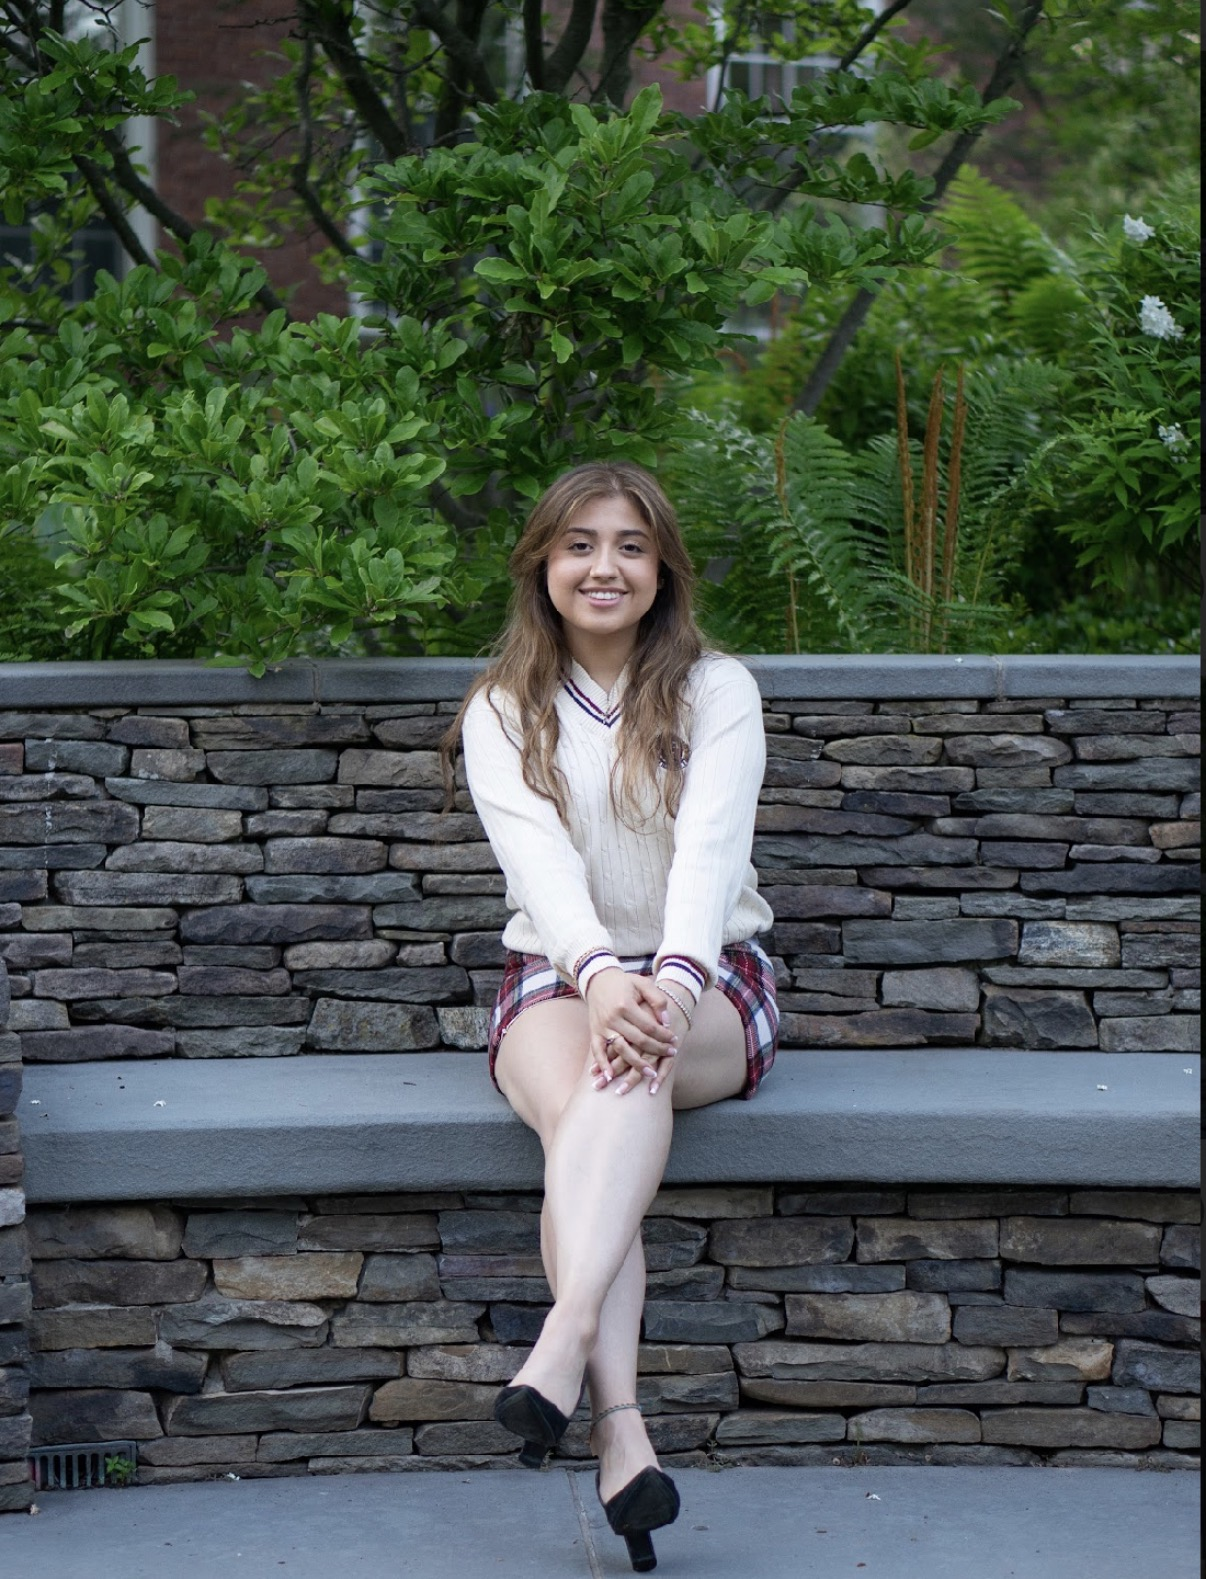
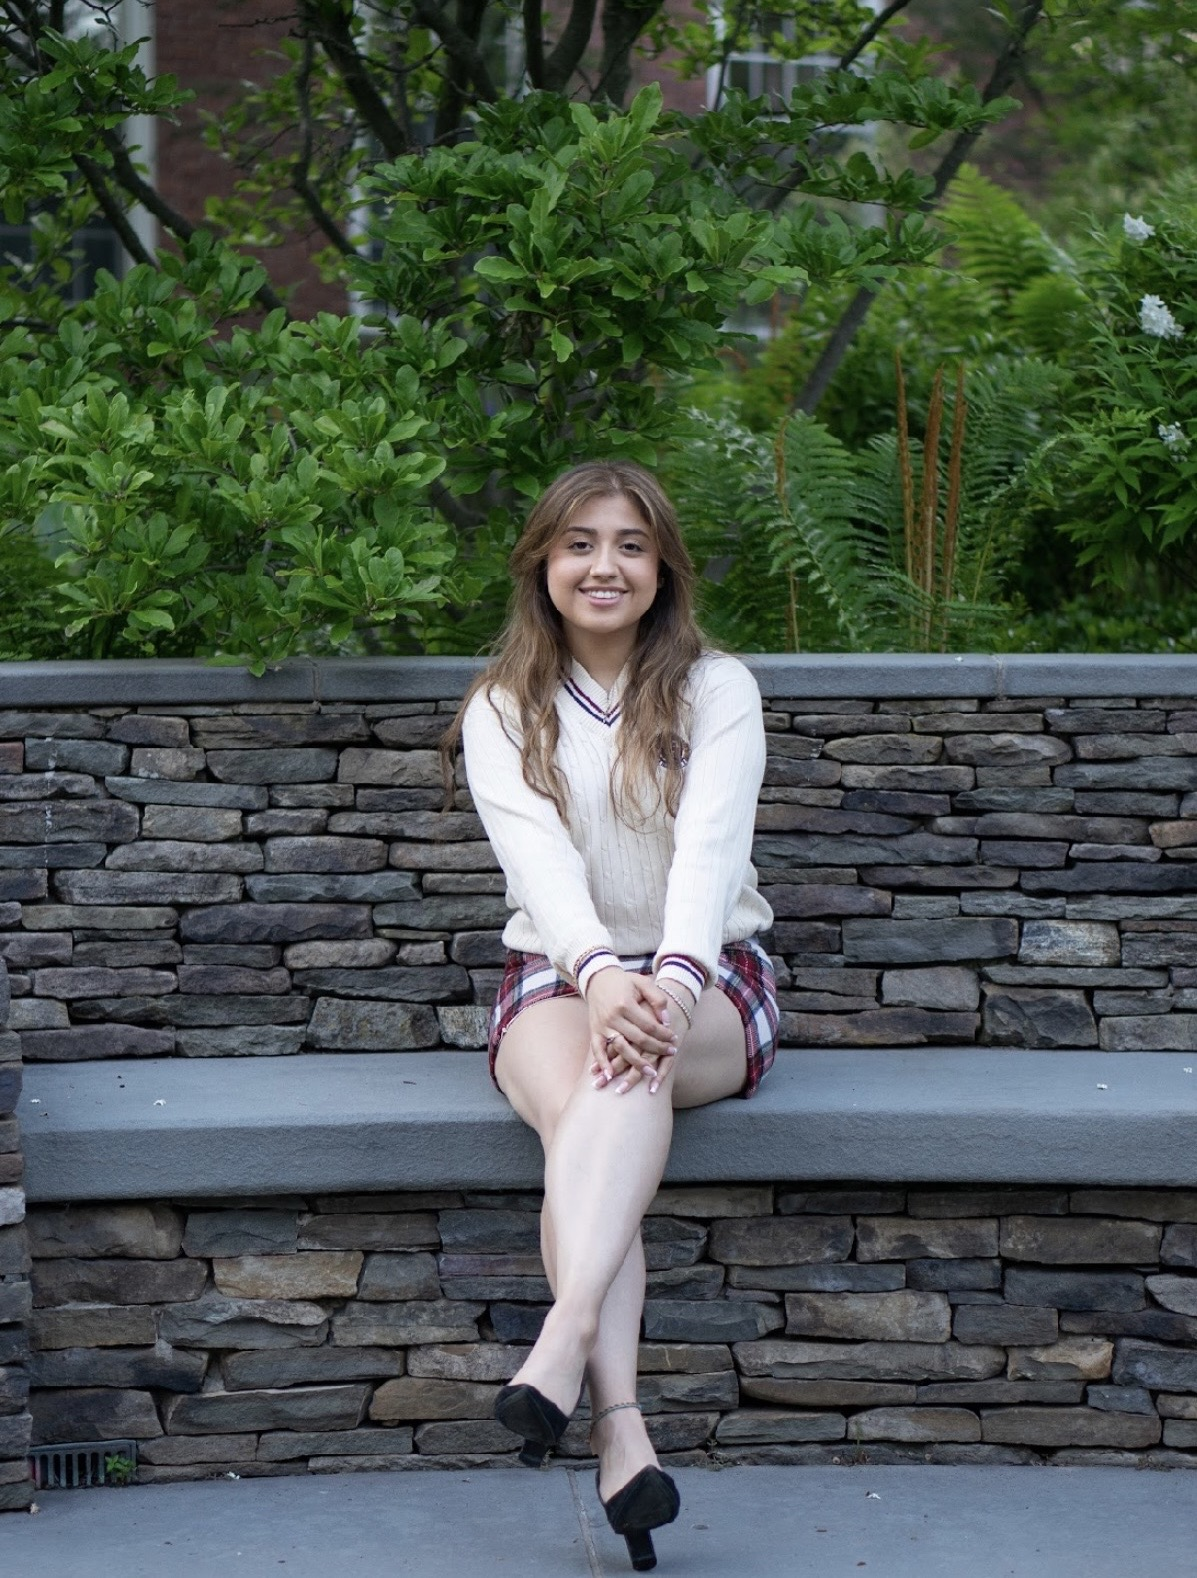
udpatedf otn and images

diff --git a/index.html b/index.html
@@ -11,7 +11,7 @@
   <link rel="preconnect" href="https://fonts.googleapis.com">
   <link rel="preconnect" href="https://fonts.gstatic.com" crossorigin>
   <link
-    href="https://fonts.googleapis.com/css2?family=Fraunces:opsz,wght,SOFT@9..144,300..700,0..100&family=Karla:wght@300;400;500;600;700&family=Cormorant+Garamond:wght@300&display=swap"
+    href="https://fonts.googleapis.com/css2?family=Fraunces:opsz,wght,SOFT@9..144,300..700,0..100&family=Karla:wght@300;400;500;600;700&family=Cormorant+Garamond:wght@700&display=swap"
     rel="stylesheet">
   <link rel="stylesheet" href="css/style.css">
   <script src="js/main.js" defer></script>
@@ -80,7 +80,7 @@
         <div>
           <p class="eyebrow on-navy fade-up">Education, Done Purposefully.</p>
           <div class="hero-title-row">
-            <h1>
+            <h1 class="cg-head">
               <span class="ln"><span>Helping Students and</span></span>
               <span class="ln"><span>Families Create a Plan</span></span>
               <span class="ln"><span><em>With Purpose.</em></span></span>
@@ -215,7 +215,7 @@
       <div class="wrap">
         <div class="sec-head rv">
           <p class="eyebrow">START WITH PURPOSE</p>
-          <h2>Let&rsquo;s Find the Right Starting Point for Your Student</h2>
+          <h2 class="cg-head">Let&rsquo;s Find the Right Starting Point for Your Student</h2>
           <p>Answer a few questions to discover the best place to begin.</p>
         </div>
         <div class="finder-card rv">
@@ -317,7 +317,7 @@
       <div class="wrap">
         <div class="sec-head rv">
           <p class="eyebrow on-navy">Stories of Growth and Impact</p>
-          <h2 class="tst-oneline">Real families. Real growth. Real results.</h2>
+          <h2 class="tst-oneline cg-head">Real families. Real growth. Real results.</h2>
         </div>
         <div class="tst-carousel rv">
           <div class="tst-viewport">
@@ -476,7 +476,7 @@
       <div class="wrap">
         <div class="sec-head rv">
           <p class="eyebrow">Academic Programs</p>
-          <h2>Support for Every Stage of Your Student&rsquo;s Journey</h2>
+          <h2 class="cg-head">Support for Every Stage of Your Student&rsquo;s Journey</h2>
           <p>Personalized academic support from early learning through college preparation.</p>
         </div>
         <div class="teaser-grid">

diff --git a/college-support.html b/college-support.html
@@ -8,7 +8,7 @@
 <link rel="icon" href="images/favicon.png" type="image/png">
 <link rel="preconnect" href="https://fonts.googleapis.com">
 <link rel="preconnect" href="https://fonts.gstatic.com" crossorigin>
-<link href="https://fonts.googleapis.com/css2?family=Fraunces:opsz,wght,SOFT@9..144,300..700,0..100&family=Karla:wght@300;400;500;600;700&family=Cormorant+Garamond:wght@300&display=swap" rel="stylesheet">
+<link href="https://fonts.googleapis.com/css2?family=Fraunces:opsz,wght,SOFT@9..144,300..700,0..100&family=Karla:wght@300;400;500;600;700&family=Cormorant+Garamond:wght@700&display=swap" rel="stylesheet">
 <link rel="stylesheet" href="css/style.css">
 <script src="js/main.js" defer></script>
 </head>
@@ -91,7 +91,7 @@
     <div class="wrap">
       <div class="sec-head rv">
         <p class="eyebrow">Family &amp; Community Support</p>
-        <h2 class="h-oneline">College Planning Is a Family Journey.</h2>
+        <h2 class="h-oneline cg-head">College Planning Is a Family Journey.</h2>
         <p>Offer workshops and educational sessions designed to make the college process easier to understand for students and families.</p>
       </div>
       <ul class="chips rv" style="justify-content:center;margin-bottom:1.6rem">
@@ -105,7 +105,7 @@
     <div class="wrap">
       <div class="sec-head rv">
         <p class="eyebrow">College Support Options</p>
-        <h2 class="h-oneline">Guidance for Every Step of the Journey.</h2>
+        <h2 class="h-oneline cg-head">Guidance for Every Step of the Journey.</h2>
         <p>Personalized college support designed around where each student is in their journey and what they need to move forward.</p>
       </div>
       <div class="price-grid" style="grid-template-columns:repeat(2,1fr)">
@@ -142,7 +142,7 @@
     <div class="wrap">
       <div class="sec-head rv">
         <p class="eyebrow">Family &amp; Community Workshops</p>
-        <h2>College Knowledge for the<br>Whole Community.</h2>
+        <h2 class="cg-head">College Knowledge for the<br>Whole Community.</h2>
         <p>Purpose Education offers educational workshops for families, schools, and community organizations designed to make the college process easier to understand and navigate.</p>
       </div>
       <ul class="chips rv" style="justify-content:center;margin-bottom:1.6rem">

diff --git a/tutoring.html b/tutoring.html
@@ -11,7 +11,7 @@
   <link rel="preconnect" href="https://fonts.googleapis.com">
   <link rel="preconnect" href="https://fonts.gstatic.com" crossorigin>
   <link
-    href="https://fonts.googleapis.com/css2?family=Fraunces:opsz,wght,SOFT@9..144,300..700,0..100&family=Karla:wght@300;400;500;600;700&family=Cormorant+Garamond:wght@300&display=swap"
+    href="https://fonts.googleapis.com/css2?family=Fraunces:opsz,wght,SOFT@9..144,300..700,0..100&family=Karla:wght@300;400;500;600;700&family=Cormorant+Garamond:wght@700&display=swap"
     rel="stylesheet">
   <link rel="stylesheet" href="css/style.css">
   <script src="js/main.js" defer></script>
@@ -90,7 +90,7 @@
       <div class="wrap split narrow-left">
         <div class="rv">
           <p class="eyebrow">One-on-One Tutoring</p>
-          <h2>Personalized. Focused. Individualized.</h2>
+          <h2 class="cg-head">Personalized. Focused. Individualized.</h2>
           <p class="lede">One-on-one tutoring gives your student dedicated support built around how they learn best.
             Instruction is targeted, responsive, and designed to build both academic skills and confidence.</p>
         </div>
@@ -151,7 +151,7 @@
       <div class="wrap">
         <div class="sec-head rv">
           <p class="eyebrow">Academic Support</p>
-          <h2>Looking for a Specific Subject?</h2>
+          <h2 class="cg-head">Looking for a Specific Subject?</h2>
           <p>Explore the subjects, skills, and areas of support available for your student&rsquo;s grade level.</p>
         </div>
         <p class="center rv"><a class="textlink" href="by-grade.html">Explore Support by Grade &rarr;</a></p>
@@ -191,7 +191,7 @@
           </div>
         </div>
         <div class="commit-bar rv">
-          <h3>Looking for a lower-commitment starting point?</h3>
+          <h3 class="cg-head">Looking for a lower-commitment starting point?</h3>
           <p>Start with 3 hours of one-on-one tutoring for $255 ($85/hour).</p>
         </div>
         <!-- center the heading -->

diff --git a/programs.html b/programs.html
@@ -11,7 +11,7 @@
   <link rel="preconnect" href="https://fonts.googleapis.com">
   <link rel="preconnect" href="https://fonts.gstatic.com" crossorigin>
   <link
-    href="https://fonts.googleapis.com/css2?family=Fraunces:opsz,wght,SOFT@9..144,300..700,0..100&family=Karla:wght@300;400;500;600;700&family=Cormorant+Garamond:wght@300&display=swap"
+    href="https://fonts.googleapis.com/css2?family=Fraunces:opsz,wght,SOFT@9..144,300..700,0..100&family=Karla:wght@300;400;500;600;700&family=Cormorant+Garamond:wght@700&display=swap"
     rel="stylesheet">
   <link rel="stylesheet" href="css/style.css">
   <script src="js/main.js" defer></script>
@@ -78,7 +78,7 @@
       <div class="wrap">
         <div class="inner">
           <p class="crumb"><a href="index.html">Home</a><span>/</span>Academic Programs</p>
-          <h1>Personalized Programs.<br><em>Purposeful Growth.</em></h1>
+          <h1 class="cg-head">Personalized Programs.<br><em>Purposeful Growth.</em></h1>
           <p>From individualized tutoring to collaborative learning, our academic programs are designed to meet students
             where they are, strengthen their skills, and help them grow with confidence.</p>
 
@@ -90,7 +90,7 @@
       <div class="wrap split narrow-left">
         <div class="rv">
           <p class="eyebrow">One-on-One Tutoring</p>
-          <h2>Personalized. Focused. Individualized.</h2>
+          <h2 class="cg-head">Personalized. Focused. Individualized.</h2>
           <p class="lede">Our one-on-one tutoring provides targeted instruction designed around your student&rsquo;s
             learning needs, pace, and goals. Every session is guided by The Purpose Plan to support meaningful progress
             and lasting confidence.</p>

diff --git a/purpose-pods.html b/purpose-pods.html
@@ -11,7 +11,7 @@
   <link rel="preconnect" href="https://fonts.googleapis.com">
   <link rel="preconnect" href="https://fonts.gstatic.com" crossorigin>
   <link
-    href="https://fonts.googleapis.com/css2?family=Fraunces:opsz,wght,SOFT@9..144,300..700,0..100&family=Karla:wght@300;400;500;600;700&family=Cormorant+Garamond:wght@300&display=swap"
+    href="https://fonts.googleapis.com/css2?family=Fraunces:opsz,wght,SOFT@9..144,300..700,0..100&family=Karla:wght@300;400;500;600;700&family=Cormorant+Garamond:wght@700&display=swap"
     rel="stylesheet">
   <link rel="stylesheet" href="css/style.css">
   <script src="js/main.js" defer></script>
@@ -132,7 +132,7 @@
       <div class="wrap">
         <div class="sec-head rv">
           <p class="eyebrow">How It Works</p>
-          <h2>Thoughtfully Matched. Purposefully Designed.</h2>
+          <h2 class="cg-head">Thoughtfully Matched. Purposefully Designed.</h2>
           <p>Every Purpose Pod begins with an understanding of each student. Through The Purpose Plan, we identify
             individual needs, goals, and learning priorities before thoughtfully matching students for a collaborative
             learning experience.</p>
@@ -164,7 +164,7 @@
       <div class="wrap">
         <div class="sec-head rv">
           <p class="eyebrow">Academic Support</p>
-          <h2>Looking for a Specific Subject?</h2>
+          <h2 class="cg-head">Looking for a Specific Subject?</h2>
           <p>Explore the subjects, skills, and areas of support available for your student&rsquo;s grade level.</p>
         </div>
         <p class="center rv"><a class="textlink" href="by-grade.html">Explore Support by Grade &rarr;</a></p>

diff --git a/about.html b/about.html
@@ -11,7 +11,7 @@
   <link rel="preconnect" href="https://fonts.googleapis.com">
   <link rel="preconnect" href="https://fonts.gstatic.com" crossorigin>
   <link
-    href="https://fonts.googleapis.com/css2?family=Fraunces:opsz,wght,SOFT@9..144,300..700,0..100&family=Karla:wght@300;400;500;600;700&family=Cormorant+Garamond:wght@300&display=swap"
+    href="https://fonts.googleapis.com/css2?family=Fraunces:opsz,wght,SOFT@9..144,300..700,0..100&family=Karla:wght@300;400;500;600;700&family=Cormorant+Garamond:wght@700&display=swap"
     rel="stylesheet">
   <link rel="stylesheet" href="css/style.css">
   <script src="js/main.js" defer></script>
@@ -78,7 +78,7 @@
       <div class="wrap">
         <div class="inner">
           <p class="crumb"><a href="index.html">Home</a><span>/</span>About</p>
-          <h1>Education, Done <em>Purposefully.</em></h1>
+          <h1 class="cg-head">Education, Done <em>Purposefully.</em></h1>
           <p>Every student deserves an educational experience designed around who they are. Through personalized
             learning and intentional support, we help students build confidence, strengthen their skills, and reach
             their goals.</p>
@@ -264,7 +264,7 @@
       <div class="plate-bg" data-par="-0.06"></div>
       <div class="wrap values rv">
         <p class="eyebrow on-navy">What Guides Us</p>
-        <h2>Faith &middot; Excellence &middot; Purpose</h2>
+        <h2 class="cg-head">Faith &middot; Excellence &middot; Purpose</h2>
         <div class="values-grid">
           <div class="values-col">
             <svg class="svc-icon" viewBox="0 0 32 32">

diff --git a/summer-program.html b/summer-program.html
@@ -8,7 +8,7 @@
 <link rel="icon" href="images/favicon.png" type="image/png">
 <link rel="preconnect" href="https://fonts.googleapis.com">
 <link rel="preconnect" href="https://fonts.gstatic.com" crossorigin>
-<link href="https://fonts.googleapis.com/css2?family=Fraunces:opsz,wght,SOFT@9..144,300..700,0..100&family=Karla:wght@300;400;500;600;700&family=Cormorant+Garamond:wght@300&display=swap" rel="stylesheet">
+<link href="https://fonts.googleapis.com/css2?family=Fraunces:opsz,wght,SOFT@9..144,300..700,0..100&family=Karla:wght@300;400;500;600;700&family=Cormorant+Garamond:wght@700&display=swap" rel="stylesheet">
 <link rel="stylesheet" href="css/style.css">
 <script src="js/main.js" defer></script>
 </head>
@@ -74,7 +74,7 @@
     <div class="wrap">
       <div class="sec-head rv">
         <p class="eyebrow">Summer Tracks</p>
-        <h2>A Summer Plan Built for Student</h2>
+        <h2 class="cg-head">A Summer Plan Built for Student</h2>
         <p>Whether preparing for the next grade, advancing beyond it, or exploring new interests, every summer experience is designed with purpose.</p>
       </div>
       <div class="grid grid-3">
@@ -140,7 +140,7 @@
         </details>
       </div>
       <div class="commit-bar rv" style="margin-top:2rem">
-        <h3>Be the first to know.</h3>
+        <h3 class="cg-head">Be the first to know.</h3>
         <p>Join our Summer Interest List to receive course announcements, schedules, and enrollment details.</p>
         <p style="margin-top:1rem"><a class="btn btn-navy" href="contact.html">Join the Summer Interest List</a></p>
       </div>

diff --git a/contact.html b/contact.html
@@ -8,7 +8,7 @@
 <link rel="icon" href="images/favicon.png" type="image/png">
 <link rel="preconnect" href="https://fonts.googleapis.com">
 <link rel="preconnect" href="https://fonts.gstatic.com" crossorigin>
-<link href="https://fonts.googleapis.com/css2?family=Fraunces:opsz,wght,SOFT@9..144,300..700,0..100&family=Karla:wght@300;400;500;600;700&family=Cormorant+Garamond:wght@300&display=swap" rel="stylesheet">
+<link href="https://fonts.googleapis.com/css2?family=Fraunces:opsz,wght,SOFT@9..144,300..700,0..100&family=Karla:wght@300;400;500;600;700&family=Cormorant+Garamond:wght@700&display=swap" rel="stylesheet">
 <link rel="stylesheet" href="css/style.css">
 <script src="js/main.js" defer></script>
 </head>
@@ -187,7 +187,7 @@
     <div class="plate-bg" data-par="-0.06"></div>
     <div class="wrap sec-head rv" style="margin-bottom:0">
       <p class="eyebrow on-navy">Not Sure Where to Start?</p>
-      <h2>Let&rsquo;s Find the Right<br>Starting Point.</h2>
+      <h2 class="cg-head">Let&rsquo;s Find the Right<br>Starting Point.</h2>
       <p style="margin-bottom:1.8rem">Tell us a little about your student, their goals, and what support you&rsquo;re looking for. We&rsquo;ll help you determine the best next step.</p>
       <a class="btn btn-gold" href="index.html#finder">Find your starting point</a>
     </div>

diff --git a/css/style.css b/css/style.css
@@ -192,7 +192,7 @@ p{margin:0 0 1.1rem}
 .pillar p{margin:0;font-size:.95rem;color:var(--muted)}
 .navy .pillar p{color:rgba(250,235,216,.7)}
 
-.diff-statement{font-family:var(--display);font-weight:300;
+.diff-statement{font-family:var(--display);font-weight:700;
   font-size:clamp(1.45rem,2.6vw,2.1rem);line-height:1.35;color:var(--navy)}
 .navy .diff-statement{color:var(--cream)}
 .diff-statement.price-line{font-family:var(--serif);font-weight:300}
@@ -802,8 +802,11 @@ h1,h2,h3,h4,.brand-name,.eyebrow,.f-q,.f-res-name,
 .stat span{display:block;font-size:.78rem;color:var(--muted);line-height:1.5}
 
 /* --- about: display headings --------------------------------------------- */
-.display-head{font-family:var(--display);font-weight:300;color:var(--navy);
+.display-head{font-family:var(--display);font-weight:700;color:var(--navy);
   font-size:clamp(1.6rem,3vw,2.3rem);line-height:1.2;margin-bottom:1rem}
+h1.cg-head,h2.cg-head,h3.cg-head,
+.hero h1.cg-head,.page-hero h1.cg-head,
+.hero h1.cg-head em,.page-hero h1.cg-head em{font-family:var(--display);font-weight:700}
 
 /* --- contact: conditional field ------------------------------------------ */
 .field[hidden]{display:none}

diff --git a/by-grade.html b/by-grade.html
@@ -10,7 +10,7 @@
   <link rel="preconnect" href="https://fonts.googleapis.com">
   <link rel="preconnect" href="https://fonts.gstatic.com" crossorigin>
   <link
-    href="https://fonts.googleapis.com/css2?family=Fraunces:opsz,wght,SOFT@9..144,300..700,0..100&family=Karla:wght@300;400;500;600;700&family=Cormorant+Garamond:wght@300&display=swap"
+    href="https://fonts.googleapis.com/css2?family=Fraunces:opsz,wght,SOFT@9..144,300..700,0..100&family=Karla:wght@300;400;500;600;700&family=Cormorant+Garamond:wght@700&display=swap"
     rel="stylesheet">
   <link rel="stylesheet" href="css/style.css">
   <script src="js/main.js" defer></script>

diff --git a/purpose-plan.html b/purpose-plan.html
@@ -11,7 +11,7 @@
   <link rel="preconnect" href="https://fonts.googleapis.com">
   <link rel="preconnect" href="https://fonts.gstatic.com" crossorigin>
   <link
-    href="https://fonts.googleapis.com/css2?family=Fraunces:opsz,wght,SOFT@9..144,300..700,0..100&family=Karla:wght@300;400;500;600;700&family=Cormorant+Garamond:wght@300&display=swap"
+    href="https://fonts.googleapis.com/css2?family=Fraunces:opsz,wght,SOFT@9..144,300..700,0..100&family=Karla:wght@300;400;500;600;700&family=Cormorant+Garamond:wght@700&display=swap"
     rel="stylesheet">
   <link rel="stylesheet" href="css/style.css">
   <script src="js/main.js" defer></script>
